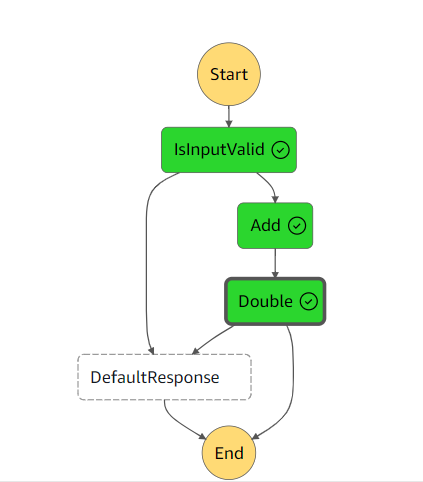
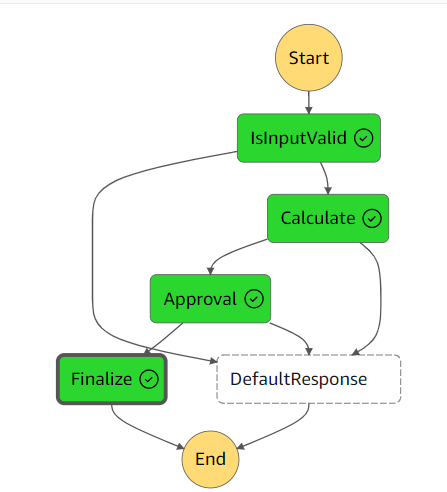
updating readme and image

diff --git a/README.md b/README.md
@@ -20,9 +20,12 @@ If you are working on an existing project
 # Steps to run the example
   - Navigate to the lambda-api-gateway project and execute the command **serverless deploy**.
     This will deploy the lambda function and expose an API gateway. Kindly note down the URL of the api gateway as we need to invoke this from the step function
+	
+  - Navigate to the lambda-approval project and execute the command **serverless deploy**.
+    This will deploy the lambda function and expose an API gateway with paths to approve and reject task. Kindly note down the URL of the api gateway as we need to invoke this from Postman.
 
   - Navigate to the chaining-step-functions-callback project.
-    Update the env.json with the url of the api gateway from previous step.
+    Update the env.json with the url of the api gateway from lambda-api-gateway step.
     Execute the command **serverless deploy**.
     Kindly note down the URL of the api gateway generated from this step.
 
